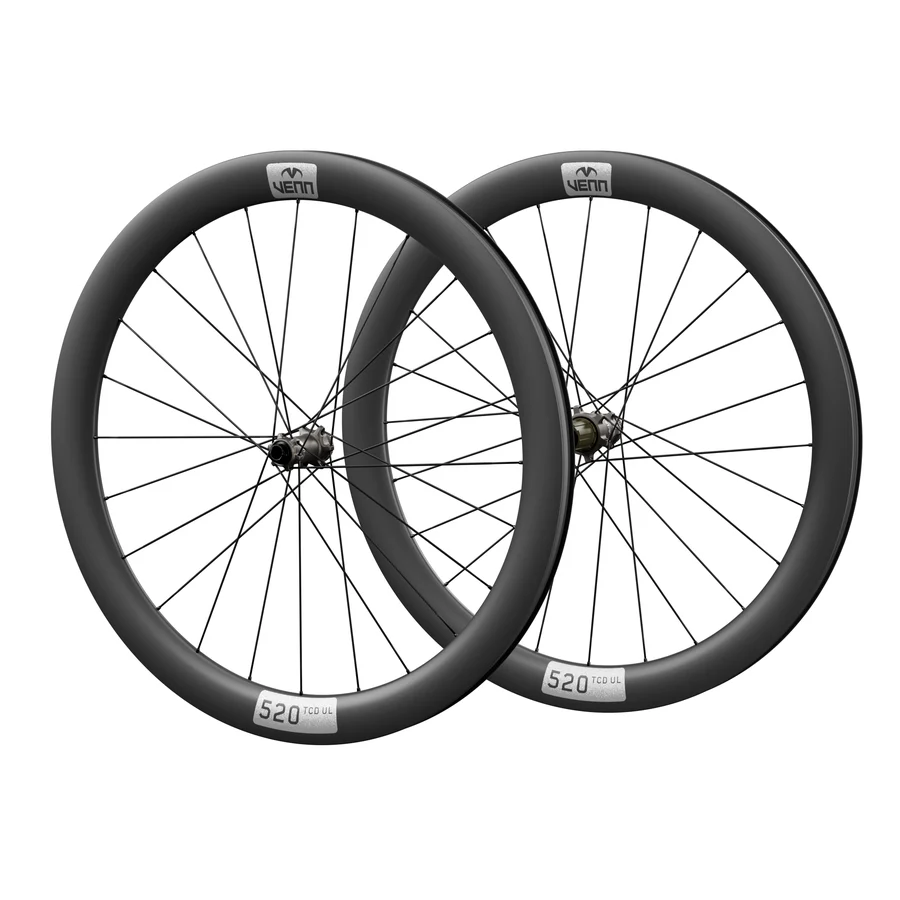
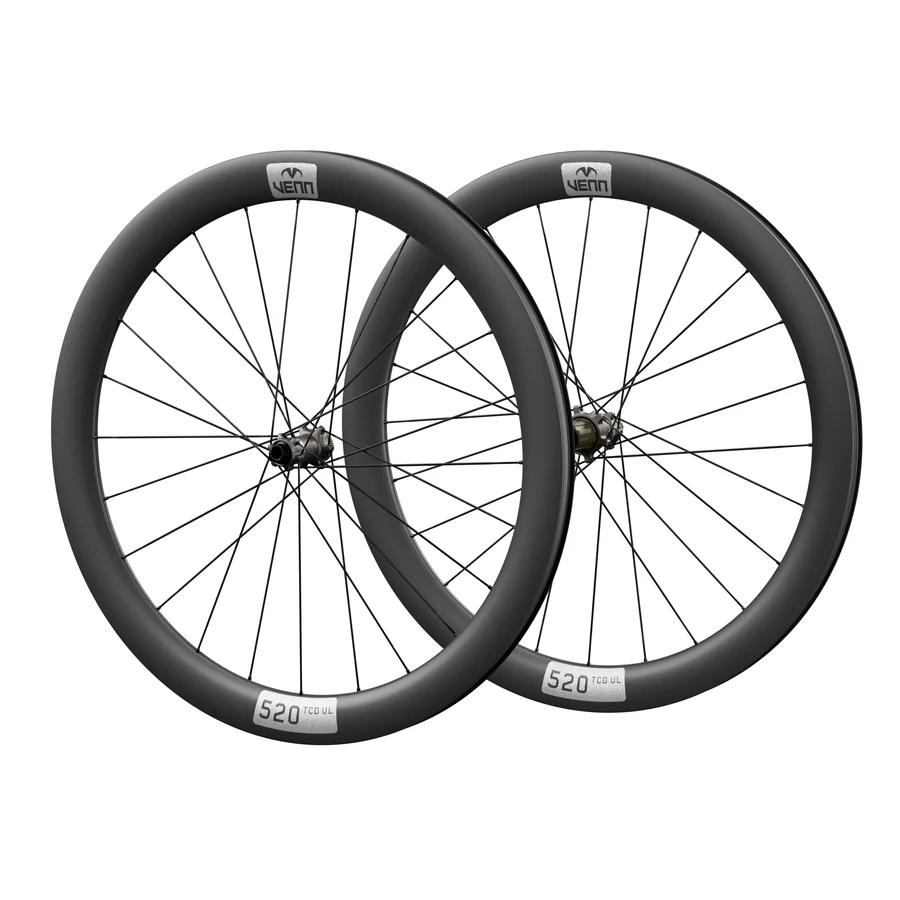
Wheelset images: Helix-01 spoke holes filled (V-128, Viktor 14 Oct 2026)
The 520 HE1 and 440 HE1 wheelset images re-made from the 14 Oct product renders, where every
spoke runs through its lug bore with its straight-pull head seated (no empty holes). Rim only,
no tyre, same framing and size (900 px WebP on white). Cache-busting query ?v=20261014.

Claude-Session: https://claude.ai/code/session_016tm19SsQVWsX6tpfhh6DPc

diff --git a/index.html b/index.html
@@ -360,7 +360,7 @@ footer a:hover{text-decoration:underline;text-decoration-color:var(--red)}
     <p class="lead">Two Venn wheelsets are built on the Helix-01: 1k filament wound carbon rims, Sapim CX-Ray spokes, and no clear coat, in gloss, matte or 25k filament wound.</p>
     <div class="wheels">
       <article class="wheel">
-        <img src="assets/img/venn-520-helix-wheelset.webp?v=20261012" width="900" height="900" loading="lazy" alt="Venn 520 HE1 carbon road wheelset on Helix-01 hubs">
+        <img src="assets/img/venn-520-helix-wheelset.webp?v=20261014" width="900" height="900" loading="lazy" alt="Venn 520 HE1 carbon road wheelset on Helix-01 hubs">
         <div class="body">
           <span class="meta">Road · 52 mm · 25 mm inside · 1,310 g</span>
           <h3>Venn 520 HE1</h3>
@@ -372,7 +372,7 @@ footer a:hover{text-decoration:underline;text-decoration-color:var(--red)}
         </div>
       </article>
       <article class="wheel">
-        <img src="assets/img/venn-440-helix-wheelset.webp?v=20261012" width="900" height="900" loading="lazy" alt="Venn 440 HE1 carbon gravel wheelset on Helix-01 hubs">
+        <img src="assets/img/venn-440-helix-wheelset.webp?v=20261014" width="900" height="900" loading="lazy" alt="Venn 440 HE1 carbon gravel wheelset on Helix-01 hubs">
         <div class="body">
           <span class="meta">Gravel · 44 mm · 32 mm inside · 1,320 g</span>
           <h3>Venn 440 HE1</h3>
